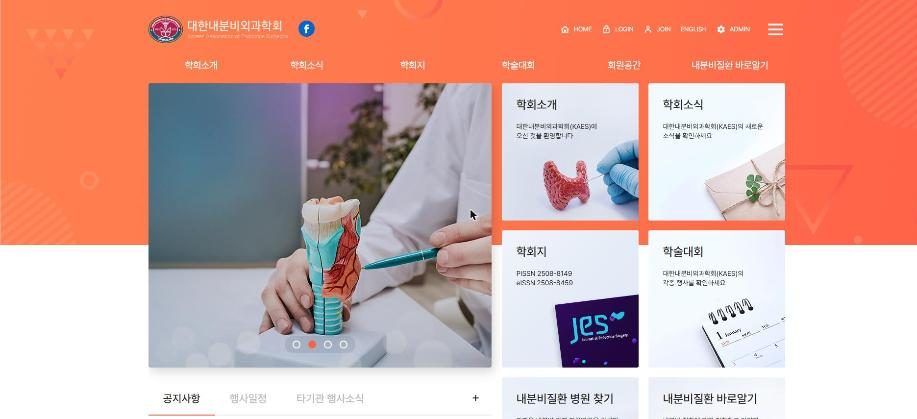
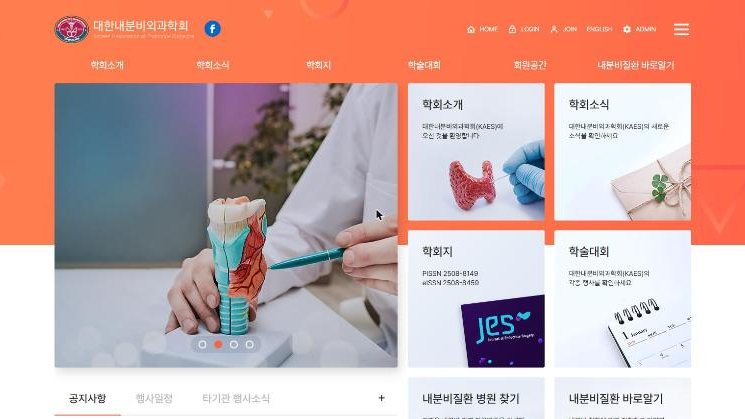
Web landing: recrop reference thumbnails to 16:9 centered on content
Claude-Session: https://claude.ai/code/session_01BC88kG6tYcaPWs7KgFTCLx

diff --git a/web/index.html b/web/index.html
@@ -260,7 +260,7 @@ footer .wrap{display:flex;justify-content:space-between;gap:16px;flex-wrap:wrap}
 .ref{display:flex;flex-direction:column;background:#fff;border:1px solid var(--line);border-radius:18px;overflow:hidden;text-decoration:none;transition:transform .2s,box-shadow .2s}
 .ref:hover{transform:translateY(-4px);box-shadow:0 18px 40px rgba(19,19,42,.12)}
 .ref .thumb{position:relative;display:block;aspect-ratio:16/9;overflow:hidden;border-bottom:1px solid var(--line);background:var(--bg2)}
-.ref .thumb img{width:100%;height:100%;object-fit:cover;object-position:top left;transition:transform .5s}
+.ref .thumb img{width:100%;height:100%;object-fit:cover;object-position:center top;transition:transform .5s}
 .ref:hover .thumb img{transform:scale(1.04)}
 .ref .wip{position:absolute;top:10px;left:10px;background:var(--hot);color:#fff;font-size:12px;font-weight:700;border-radius:999px;padding:3px 10px}
 .ref .body{display:flex;flex-direction:column;gap:3px;padding:16px 18px 18px;flex:1}
